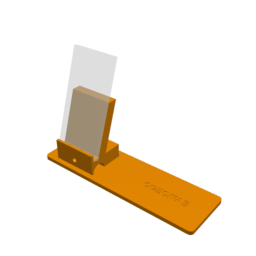
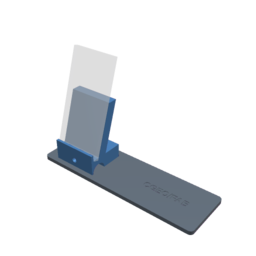
Examples: desk dock and lid box with a part list, names and colors
Both models get a part parameter, so that one part also shows in plain
OpenSCAD. Their .yml files give the part names and colors:

- desk-dock: Base plate, Stand and Cable clip. The % parts show only
  with "all".
- lid-box: Box, Lid and Knob.

The print parts of the desk dock now have names, not "Part 1" to
"Part 3". The tour and guide shot scripts and the guide Prepare a model
for printing use the new names. guide-shots.sh also copies
desk-dock.yml. Write models for CoCAD shows the new desk dock code. New
thumbnails of both models.

Changed region(s): [[0.1875, 0.3125, 0.875, 0.9375]]

diff --git a/docs/wiki/Write-models-for-CoCAD.md b/docs/wiki/Write-models-for-CoCAD.md
@@ -27,21 +27,31 @@ Three rules:
 2. Mark each part that is not printed with `%`. See [Parts that are not printed](#parts-that-are-not-printed).
 3. Keep the design rules that only the model can follow, for example round corners, wall sizes and overhangs that need no support. The **Check** card of the Optimize tab shows the problems that stay.
 
-The example **Desk dock** (`desk-dock.scad`) uses this form:
+The example **Desk dock** (`desk-dock.scad`) uses this form, with a `part` list for the names:
 
 ```openscad
+part = "all"; // [all, plate, stand, clips]
+
+module show(name) if (part == "all" || part == name) children();
+
 module assembly() {
-    plate();
-    stand();
-    clip_at(0.3);    // three copies of one clip
-    clip_at(0.55);
-    clip_at(0.8);
-    %phone();        // shown, not printed
-    %magnets();
-    %screws();
+    show("plate") plate();
+    show("stand") stand();
+    show("clips") {
+        clip_at(0.3);    // three copies of one clip
+        clip_at(0.55);
+        clip_at(0.8);
+    }
+    if (part == "all") {
+        %phone();        // shown, not printed
+        %magnets();
+        %screws();
+    }
 }
 assembly();
 ```
+
+`desk-dock.yml` gives the parts the names "Base plate", "Stand" and "Cable clip".
 
 See [Prepare a model for printing](Prepare-a-model-for-printing) for the print preparation of this model.
 
@@ -93,7 +103,7 @@ module assembly() {
 assembly();
 ```
 
-For the rules and the limits, see [How CoCAD finds the parts](How-CoCAD-finds-the-parts). The example `lid-box.scad` uses this form.
+For the rules and the limits, see [How CoCAD finds the parts](How-CoCAD-finds-the-parts). The example `lid-box.scad` uses this form, with a [`part` list](#names-for-the-parts) for the names.
 
 ## Names for the parts
 

diff --git a/docs/wiki/Prepare-a-model-for-printing.md b/docs/wiki/Prepare-a-model-for-printing.md
@@ -29,9 +29,9 @@ The **Plate** card shows three print parts:
 
 | Print part | What it is | Status |
 |---|---|---|
-| **Part 1** | The base plate | Too large |
-| **Part 2** | The stand | 7 problems |
-| **Part 3 ×3** | The clips. CoCAD found three parts with the same shape. | 5 problems |
+| **Base plate** | The base plate | Too large |
+| **Stand** | The stand | 7 problems |
+| **Cable clip 1 ×3** | The clips. CoCAD found three parts with the same shape. | 5 problems |
 
 The print area is 220 × 220 × 250 mm, the default. The base plate is 260 mm long, so it is on no plate. Below its row, a **Split** section shows a proposal. You split the plate in [step 6](#6-split-the-base-plate).
 
@@ -145,7 +145,7 @@ The fixes work together. CoCAD applies them in this order: the hole size, the cu
 
 In the model, the clips sit tilted on the back of the stand. In this rotation, a clip stands on an edge on the bed. The **Check** card lists 5 problems for it.
 
-1. Click **Part 3 ×3** in the **Plate** card.
+1. Click **Cable clip 1 ×3** in the **Plate** card.
 2. In the **Orientation** card, turn on **Custom orientation**. **Auto** is the first choice.
 
 CoCAD puts the clip on its best face. The cable hole now goes up, so it needs no teardrop, and the clip has no problems.
@@ -169,8 +169,8 @@ The base plate is 260 mm long. It does not fit the print area of 220 × 220 mm. 
 
 Click **Split**. The plate becomes two print parts:
 
-- **Part 1 1/2**, 134.9 × 80.0 × 6.0 mm, with the tabs.
-- **Part 1 2/2**, 129.9 × 80.0 × 6.0 mm, with the sockets.
+- **Base plate 1/2**, 134.9 × 80.0 × 6.0 mm, with the tabs.
+- **Base plate 2/2**, 129.9 × 80.0 × 6.0 mm, with the sockets.
 
 All parts are now on one plate.
 
